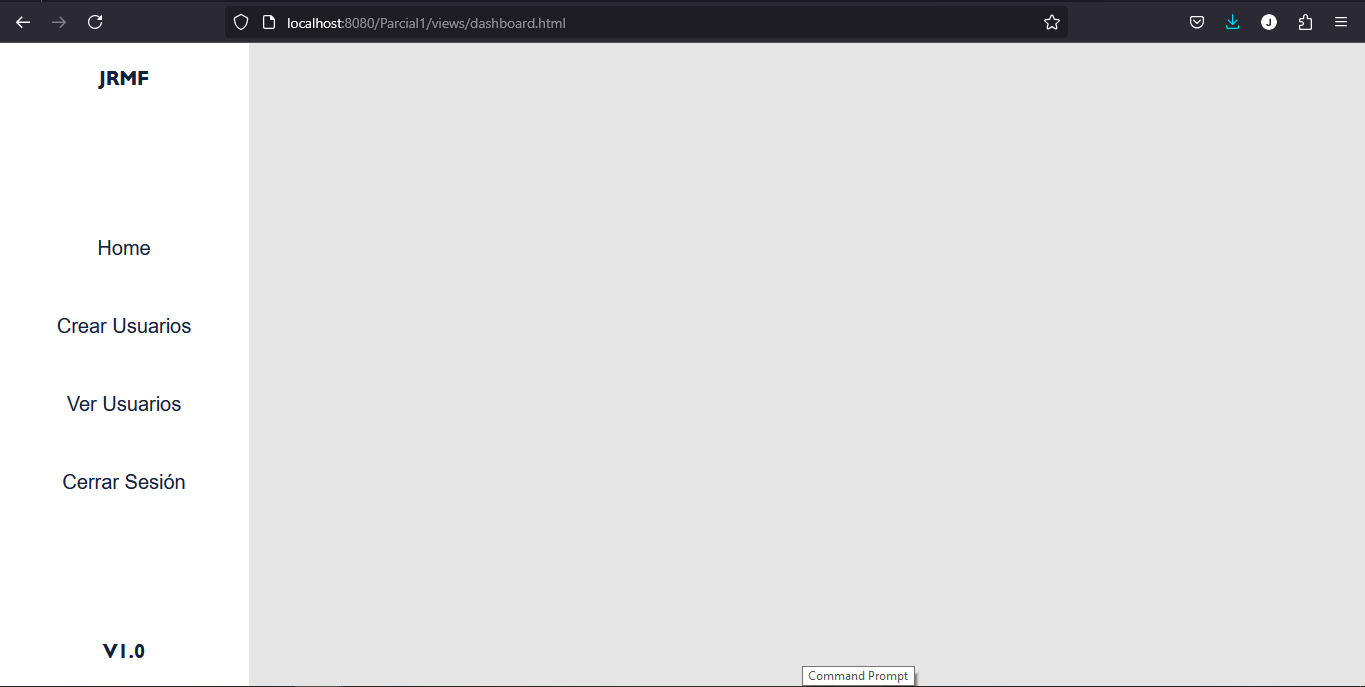
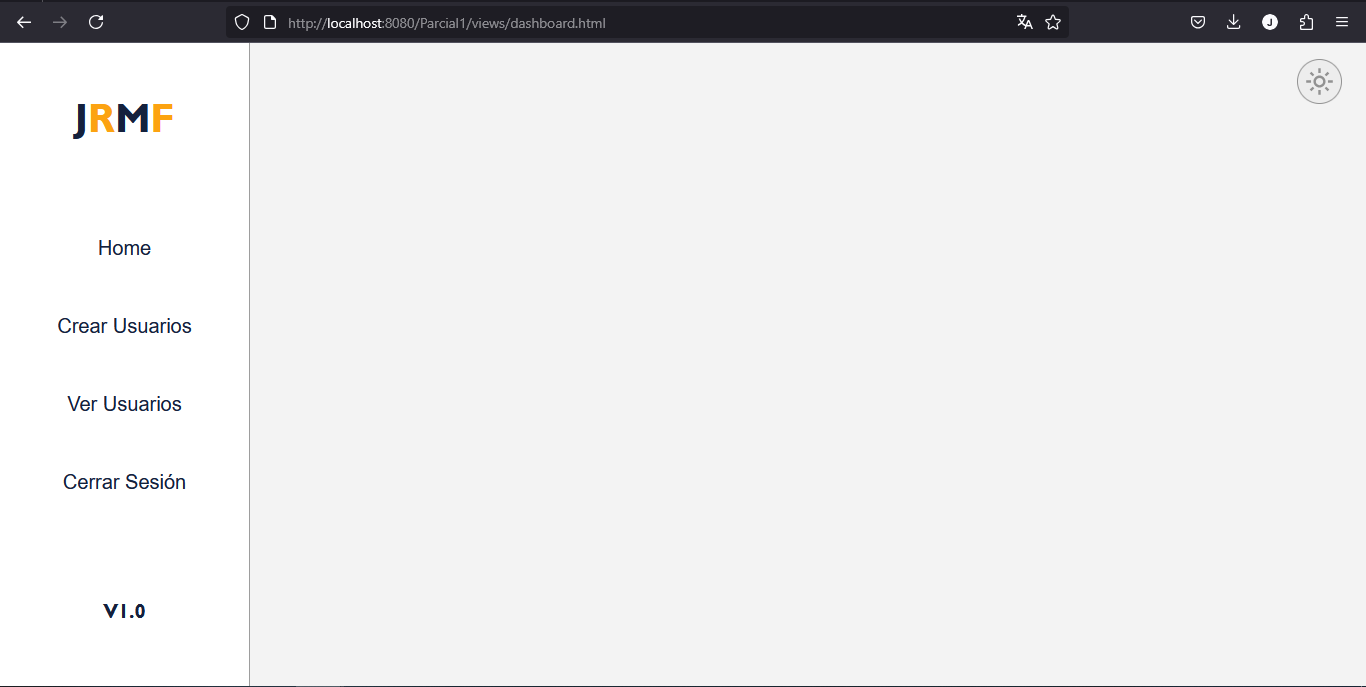
JRT - feat(docs): Se tactualiza la documentacion

diff --git a/README.md b/README.md
@@ -39,8 +39,19 @@ La base de datos la manejaremos en **Sql Server**.
 
   ![dashboardHtmlHome](src/main/webapp/assets/img/repository/dashboardHtmlHome.PNG)
 
-  **Opción "Crear Usuarios":** 
-    - Nota: Esta opción aún se está desarrollando.
+  **Opción "Crear Usuarios":** Se visualizará un formulario, que permité registrar usuarios en el sistema.
+    
+  ![dashboardHtmlCreateUser](src/main/webapp/assets/img/repository/dashboardHtmlCreateUser.PNG)
+
+  Diligenciamos el formulario y oprimimos en el botón **"Crear Usuario"**  
+
+  ![dashboardHtmlCreateUserExample](src/main/webapp/assets/img/repository/dashboardHtmlCreateUserExample.PNG)
+  
+  Al crear el usuario, seremos redirigidos a al inicio del [dashboard.html](src/main/webapp/views/dashboard.html).
+
+  ![dashboardHtml](src/main/webapp/assets/img/repository/dashboardHtml.PNG)
+  
+  Al dirigirnos a la opción de ver usuarios visualizaremos el usuario creado.
   
   **Opción "Ver Usuarios:"** Se Visualizará una tabla con los correspondientes usuarios registrados en el sistema.
 
@@ -54,6 +65,14 @@ La base de datos la manejaremos en **Sql Server**.
   Redireccionado:
 
   ![dashboardHtmlLogoutIndexJSP](src/main/webapp/assets/img/repository/dashboardHtmlLogoutIndexJSP.PNG)
+
+  Adicionalmente en la parte superior derecha, tenemos un botón que nos permite cambiar de modo claro a oscuro y viserversa.
+
+  ![dashboardHtmlDark](src/main/webapp/assets/img/repository/dashboardHtmlDark.PNG)
+
+  ![dashboardHtmlCreateUserDark](src/main/webapp/assets/img/repository/dashboardHtmlCreateUserDark.PNG)
+
+  ![dashboardHtmlListUsersDark](src/main/webapp/assets/img/repository/dashboardHtmlListUsersDark.PNG)
 
 
 - También se cuenta con una funcionalidad en API con solo dos métodos los cuáles son ***GET*** y ***POST***
